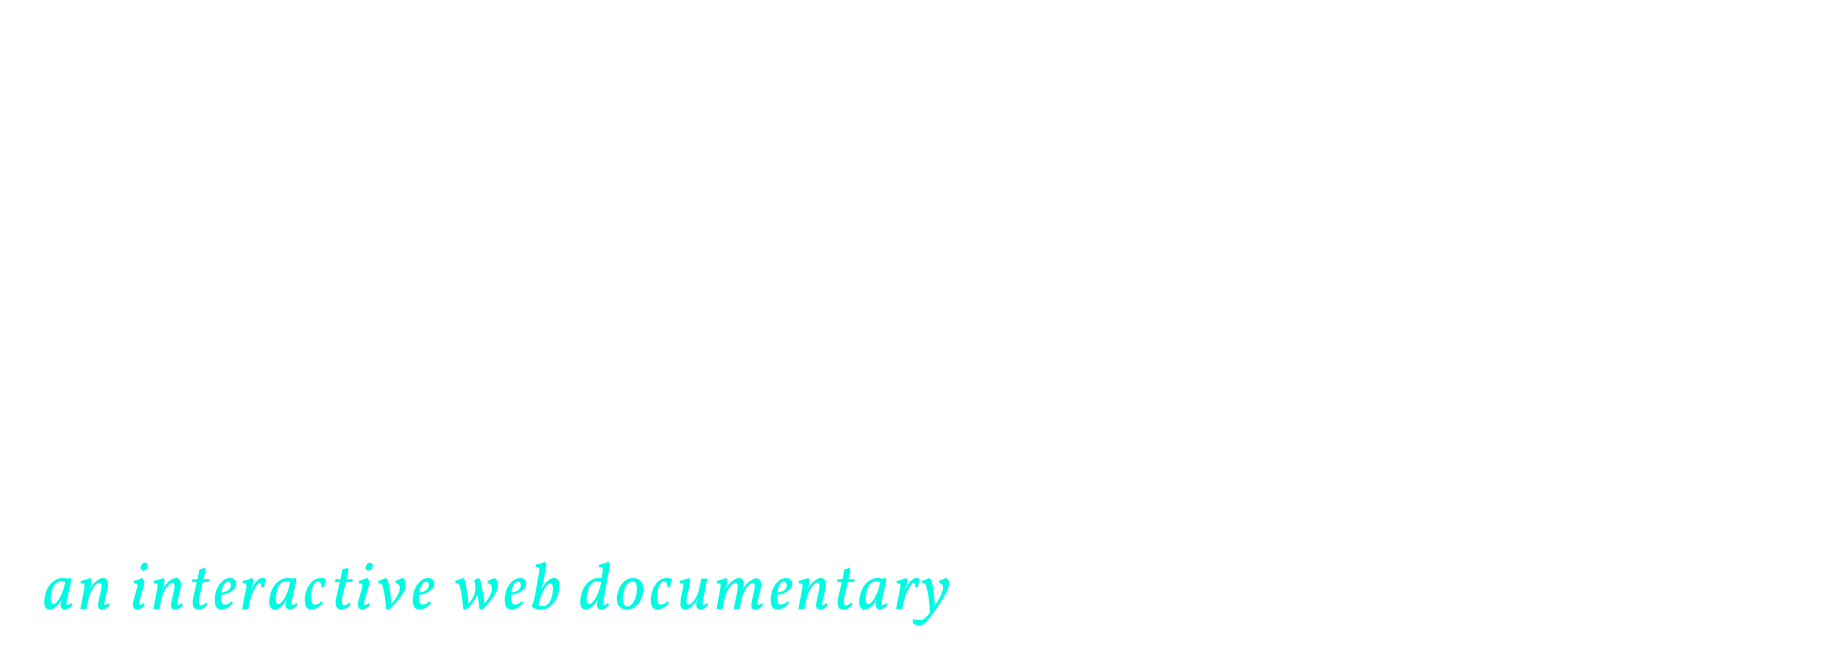
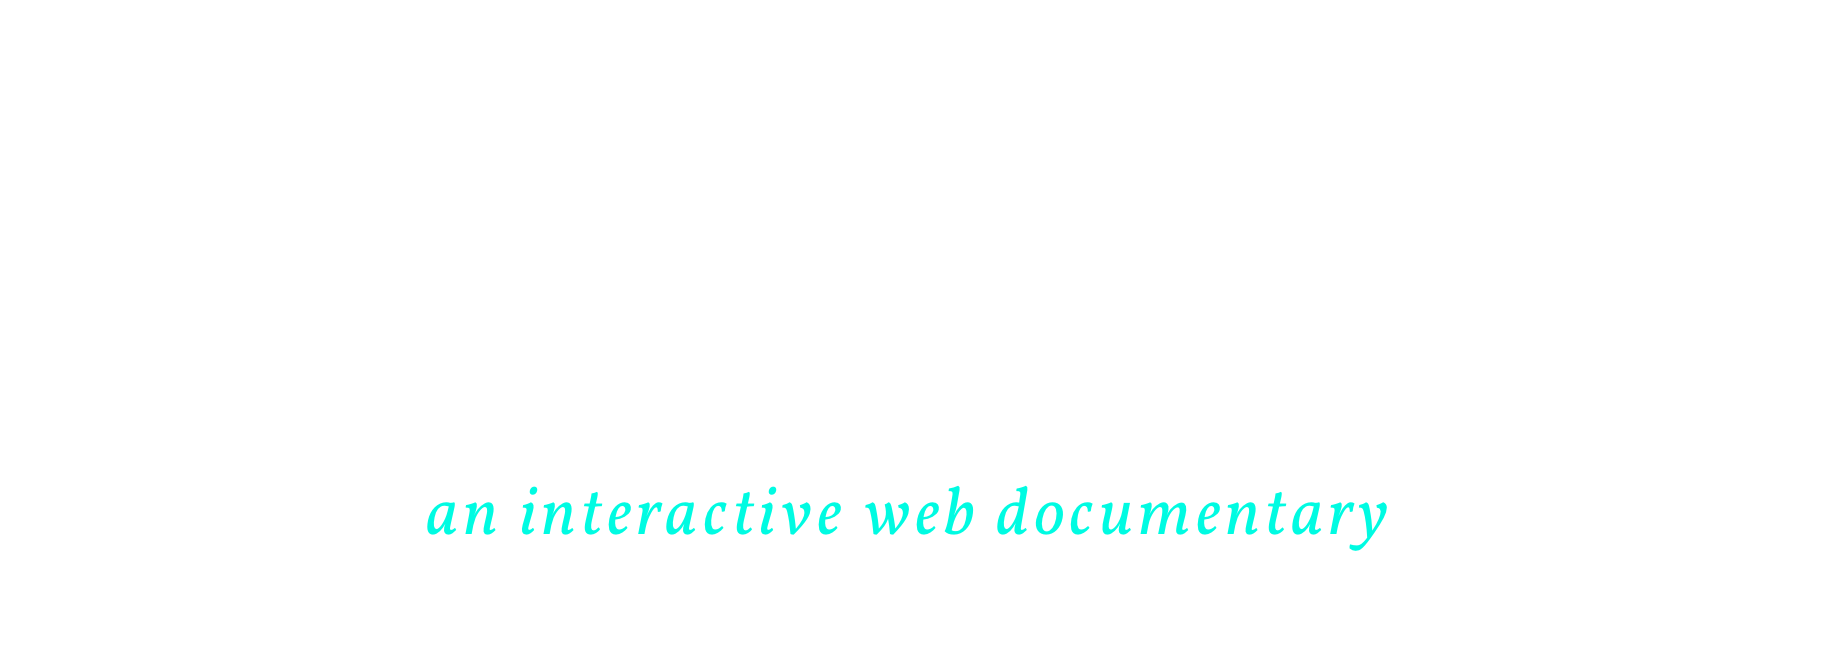
v1

Changed region(s): [[0.2168, 0.7362, 0.7745, 0.8282], [0.0, 0.8589, 0.5266, 0.9509]]

diff --git a/js/script.js b/js/script.js
@@ -145,16 +145,26 @@ $(document).ready(function() {
     fadeOutLink('#government-nextbutton', '../people/people.html');
     fadeOutLink('#people-nextbutton', '../future/future.html');
 
+    if (document.location.pathname.match(/future.html/) == null) {
+        fadeOutLink('.send-message-button', '../future/future.html#4');
+    } else {
+        $('body').on('click', $('.send-message-button'),function() {
+            window.location.href = '../future/future.html#4';
+        });
+    }
+
+
+
     if ($('meta#dots-diamonds').length > 0) {
         $('#fullpage').fullpage( {
             anchors:['1', '2', '3', '4', '5', '6', '7', '8'],
             onLeave: function(index, nextIndex, direction) {
                 $('h1, h2, h3, h4, h5, h6, hr, .graphic, .nextbutton, .end-icon, .card').css({'visibility': 'hidden'});
                 $('h1, h2, h3, h4, h5, h6, hr, .graphic, .nextbutton, .end-icon, .card').removeClass('animated fadeInUp');
-                $('p, .story-overlay').css({'visibility': 'hidden'});
+                $('p, .story-overlay, #message').css({'visibility': 'hidden'});
                 //Keep content on page almost
                 //this.find('h4').css({'visibility': 'visibile'});
-                $('p, .story-overlay').removeClass('animated fadeIn');
+                $('p, .story-overlay, #message').removeClass('animated fadeIn');
                 $('.play').removeClass('pause');
             },
             afterLoad: function(anchorLink, index) {
@@ -162,8 +172,8 @@ $(document).ready(function() {
                 setSideBar('dot', false);
                 $('h1, h2, h3, h4, h5, h6, hr, .graphic, .nextbutton, .end-icon, .card').css({'visibility': 'visible'});
                 $('h1, h2, h3, h4, h5, h6, hr, .graphic, .nextbutton, .end-icon, .card').addClass('animated fadeInUp');
-                $('p, .story-overlay').css({'visibility': 'visible'});
-                $('p, .story-overlay').addClass('animated fadeIn');
+                $('p, .story-overlay, #message').css({'visibility': 'visible'});
+                $('p, .story-overlay, #message').addClass('animated fadeIn');
             },
         });
     }

diff --git a/css/styles.css b/css/styles.css
@@ -35,6 +35,14 @@ h1 {
 	font-size: 42px;
 }
 
+#take-action h1 {
+	padding: 0;
+	font-size: 38px;
+	padding-bottom: 30px;
+	line-height: 54px;
+	letter-spacing: 4.2px;
+}
+
 h2 {
 	margin: 0;
 	font-family: "NexaBold", sans-serif;
@@ -54,6 +62,10 @@ h3 {
 	line-height: 32px;
 	width: 420px;
 	color: white;
+}
+
+#take-action h3 {
+	width: 450px;
 }
 
 h4 {
@@ -238,7 +250,7 @@ video {
 
 #title {
 	position: absolute;
-	top: 20%;
+	top: 25%;
 	left: 25%;
 	z-index: 100;
 }
@@ -255,7 +267,7 @@ video {
 	letter-spacing: 1.8px;
 	text-align: center;
 	padding: 10px 0 10px 0;
-	top: 75%;
+	top: 65%;
 	left: 0;
 	right: 0;
 	transition: opacity .25s ease-in-out;
@@ -298,6 +310,22 @@ video {
     -moz-transition: background-image .25s ease-in-out;
     -webkit-transition: background-image .25s ease-in-out;
 }
+
+.send-message-button {
+	position: absolute;
+	background-image: url("../menu/send-message-button.png");
+	width: 65px;
+	height: 50px;
+	left: 50%;
+	top: 0;
+	margin-left: -32px;
+	margin-top: 600px;
+}
+
+.send-message-button:hover {
+	cursor: pointer;
+}
+
 
 .menu-icon {
 	background-image: url("../menu/menu-icon.png");
@@ -796,7 +824,7 @@ video {
 /* Future */
 
 #future {
-	background-image: url("../future/futureimage.png")
+	background-image: url("../future/futureimage.png");
 }
 
 #global-issue {
@@ -804,7 +832,21 @@ video {
 }
 
 #future-quote {
-	background-image: url("../future/futurequote.png")
+	background-image: url("../future/futurequote.png");
+}
+
+#take-action {
+	background-image: url("../future/take-action.png");
+}
+
+#message {
+	position: absolute;
+	background-image: url("../future/messageimage.png");
+	width: 420px;
+	height: 100%;
+	top: 0;
+	right: 0;
+	margin-right: 95px;
 }
 
 

diff --git a/people/people.html b/people/people.html
@@ -12,13 +12,14 @@
 		<div class="menu-icon"></div>
 		<div class="close-icon"></div>
 		<div class="iconset"></div>
+		<div class="send-message-button"></div>
 	</div>
 	<div id="fullpage">
 		<div id="people" class="section"> 
 			<div class="overview">
 				<h2>People</h2>
 				<h1>Vanishing Stories</h1>
-				<h3>What happens when homelands become completely uninhabitable? The governing bodies of island nations must now take a stand to ensure their country&#39;s survival.</h3>
+				<h3>As rising tides wash away lands, island culture and way of life are being threatened too. These are the stories of the pacific islanders as told in their own words.</h3>
 			</div>
 		</div>
 		<div id="daughter" class="section"> 
@@ -42,7 +43,7 @@
 					<h5 class="location">North Tarawa, Kiribati</h5>
 					<h5 class="name">Lisa Rawekai</h5>
 					<h6>Salty Water</h6>
-					<p>Marshallese poet Kathy Jetnil-Kijiner spoke on behalf of civil society during the opening ceremony of the UN Climate Summit in New York City.She performed her poem entitled "Dear Matafele Peinem" written to her daughter.</p>
+					<p>&#8221;My name is Lisa Rawekai. I am 18 years old and from Buota, a small village in North Tarawa.  Since I was a little girl, I used this well to get fresh water from it. Recently, the water has been getting salty because of climate change. We don&#39;t have fresh water from home anymore, so I have to walk to the next village to get it for my family.&#8221;</p>
 					<div class="play" id="play2">
 						<audio id="audio2">
 							<source src="../people/identity-audio.mp3">

diff --git a/future/future.html b/future/future.html
@@ -12,6 +12,7 @@
 		<div class="menu-icon"></div>
 		<div class="close-icon"></div>
 		<div class="iconset"></div>
+		<div class="send-message-button"></div>
 		</div>
 	</div>
 	<div id="fullpage">
@@ -19,7 +20,7 @@
 			<div class="overview">
 				<h2>Future</h2>
 				<h1>The Need for Change</h1>
-				<h3>What happens when homelands become completely uninhabitable? The governing bodies of island nations must now take a stand to ensure their country&#39;s survival.</h3>
+				<h3>The plight of the pacific islands serve as a warning to the rest of the world. Immediate international action targeting climate change reduction is a necessity to securing the future.</h3>
 			</div>
 		</div>
 		<div id="global-issue" class="section">
@@ -35,6 +36,14 @@
 				<h4>Enele Sopoaga, Prime Minister of Tuvalu</h4>
 				<h6>If you were faced with the threat of the disappearance of your nation, what would you do?</h6>
 				<hr>
+			</div>
+		</div>
+		<div id="take-action" class="section">
+			<div class="explain">
+				<h1>There&#39;s power in democracy</h1>
+				<h3>Get involved by talking to your elected officials. Let them know the importance of a climate action plan to reduce greenhouse gas emissions. And next time you&#39;re voting, remember to vote for politicians who support effective climate change policies.</h3>
+			</div>
+			<div id="message">
 			</div>
 		</div>
 	</div>

diff --git a/government/government.html b/government/government.html
@@ -12,6 +12,7 @@
 		<div class="menu-icon"></div>
 		<div class="close-icon"></div>
 		<div class="iconset"></div>
+		<div class="send-message-button"></div>
 	</div>
 	<div id="fullpage">
 		<div id="government" class="section"> 
@@ -25,6 +26,7 @@
 			<div class="explain">
 				<h4>Climate Migration</h4>
 				<p>As climate change threatens the long-term survival of the pacific islands, mass relocation of populations may soon become inevitable. Kiribati has become the first country to purchase land from a neighbouring nation, Fiji, to house future displaced citizens. Countries like Tuvalu and the Marshall Islands are seeking immigration agreements with Australia, New Zealand, and the United States.</p>
+				<div class="graphic"><img src="migration-image.png"></div>
 			</div>
 		</div>
 		<div id="government-quote" class="section">

diff --git a/introduction/introduction.html b/introduction/introduction.html
@@ -12,6 +12,7 @@
 		<div class="menu-icon"></div>
 		<div class="close-icon"></div>
 		<div class="iconset"></div>
+		<div class="send-message-button"></div>
 	</div>
 	<div id="fullpage">
 		<div id="intro" class="section"> 

diff --git a/lands/lands.html b/lands/lands.html
@@ -13,6 +13,7 @@
 		<div class="menu-icon"></div>
 		<div class="close-icon"></div>
 		<div class="iconset"></div>
+		<div class="send-message-button"></div>
 	</div>
 	<div id="fullpage">
 		<div id="lands" class="section"> 
